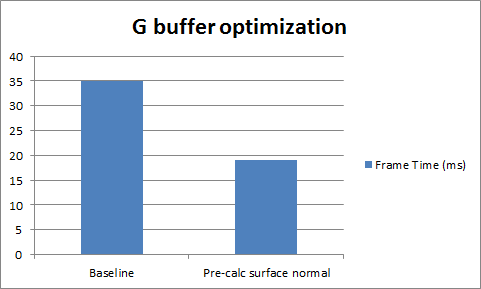
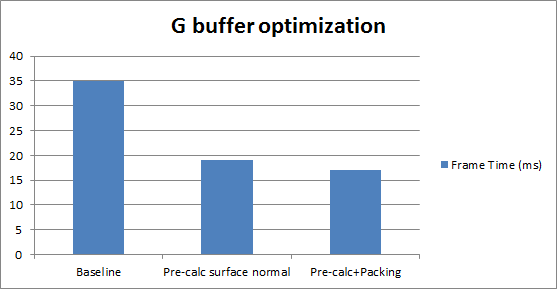
readme

diff --git a/README.md b/README.md
@@ -8,86 +8,128 @@ WebGL Deferred Shading
 
 ### Live Online
 
-[![](img/thumb.png)](http://TODO.github.io/Project6-WebGL-Deferred-Shading)
+[![](img/thumb.png)](http://stonebird.github.io/Project6-WebGL-Deferred-Shading/)
 
 ### Demo Video
 
-[![](img/video.png)](TODO)
+[![](img/video.png)](https://vimeo.com/143500915)
 
 ### Features and Analysis
 
-**Effects:**
+#### Effects
 
 * Deferred Blinn-Phong shading [4]
   * Blinn-Phong lighting with normal mapping support, rendered in a separate pass outside fragment shader
-  * *Optimization*:
-  * *Possible further improvements*: 
+  * *Optimization*: remove out surface normal calculations (see Optimized g-buffer)
+  * *Possible further improvements*: better falloff computation
+
+###### Deferred render
+
+![](img/deferred-render.png)
+
 * Bloom
-  * Post-process Gaussian blur [1] used to simulate glow effect=
-  * *Performance impact*:
-    * If applicable, how do parameters (such as number of lights, etc.)
-      affect performance? Show data with simple graphs.
-  * *Optimization*:
-  * *Possible further improvements*: 
+  * Post-process Gaussian blur [1] used to simulate glow effect
+  * *Optimization*: use two-pass Gaussian blur instead of one single convolution kernel
+    * Single convolution kernel requires significantly more time to compute. For a 5x5 kernel, that would require 25 reads per fragment
+    * On the other hand, two-pass convolution only needs 10 reads per fragment, which yields a 2.5x speedup
+  * *Possible further improvements*: none
+  * *Performance impact*: minor performance impact; see graph below
+
+###### Bloom
+
+![](img/bloom-shading.png)
+
 * Toon shading
   * Ramp shading with an edge detector for rendering outlines [2][3]
-  * *Performance impact*:
-    * If applicable, how do parameters (such as number of lights, etc.)
-      affect performance? Show data with simple graphs.
-  * *Optimization*:
-  * *Possible further improvements*: 
+  * Uses Sobel operator as edge detectors. The operator requires two convolution passes, each of which is a 3x3 kernel
+  * *Possible further improvements*: more passes for faster convolution. E.g. break each pass further into 2 passes, so that in each pass the shader is only applying convolution with a 1D kernel 
+  * *Performance impact*: medium performance impact; see graph below
+
+###### Toon
+
+![](img/toon-shading.png)
+
 * Additional material properties
   * Supports specular exponent as an input to g-buffers
   * *Performance impact*: no visible impact
 
-**Optimizations:**
+###### Additional material property
+
+![](img/spec-exp.png)
+
+###### Frame time (ms) with varying # of lights
+
+![](img/light-time.png)
+
+#### Optimizations
+
+* Optimized g-buffer format, reduce the number and size of g-buffers:
+  * `master` branch: surface normal pre-calculation
+    * Applying the normal map in the `copy` shader pass instead of copying both geometry normals and normal maps
+    * *Performance analysis*
+      * Significant improvement over non-optimized g-buffer for the following two reasons:
+        * 1 less g-buffer to read/write. This results in overall shorter memory access time
+        * Since the Blinn-Phong shader shades fragments in a loop, pre-calculating surface normal avoids recalculating surface normal over and over again inside the loop. This greatly reduces the computation time during deferred lighting
+      * Tradeoff: less flexibility inside the shader. The shader won't get geometry normal as input.
+  * `color-packing` branch: RGBA packing (**Chrome only**); code derived from [5]
+    * On top of pre-calculating surface normal, packing RGBA information into a single floating point value in g-buffer
+    * *Performance analysis*
+      * Minor performance improvement, due to one less g-buffer and hence overall faster memory access
+      * In general, this provides only marginal performance improvement, while reducing color quality greatly during color reconstruction
+      * Tradeoff: significant loss in color quality
+  * The reason why they are in two different branches is that color packing results in significant color quality loss in this implementation
+
+###### Render with RGBA packing. Notice the reduced color quality of the reconstructed color map
+
+![](img/packing-demo.png)
+
+###### G-buffer optimization effects
+
+![](img/gbuf-opt.png)
+
 * Scissoring
   * Scissor the screen for each light, such that it only renders in a rectangle around the light
-  * Detailed performance improvement analysis of adding the feature
-    * What is the best case scenario for your performance improvement? What is
-      the worst? Explain briefly.
-    * Are there tradeoffs to this performance feature? Explain briefly.
-    * How do parameters (such as number of lights, tile size, etc.) affect
-      performance? Show data with graphs.
-    * Show debug views when possible.
-      * If the debug view correlates with performance, explain how.
-* Optimized g-buffer format, reduce the number and size of g-buffers:
-  * Applying the normal map in the `copy` shader pass instead of copying both geometry normals and normal maps
-  * Detailed performance improvement analysis of adding the feature
-    * What is the best case scenario for your performance improvement? What is
-      the worst? Explain briefly.
-    * Are there tradeoffs to this performance feature? Explain briefly.
-    * How do parameters (such as number of lights, tile size, etc.) affect
-      performance? Show data with graphs.
-    * Show debug views when possible.
-      * If the debug view correlates with performance, explain how.
+  * *Performance analysis*
+    * Effectivity
+      * Effective in most cases, as instead of calculating lighting for all fragments, only a small portion of the fragments participate in the actual computation. Hence if a fragment is lit by only a few lights, less computation is needed.
+      * However, it becomes ineffective when number of lights increases to a significant amount. As seen in "Frame time" graph above, at 120 lights, the frame time increases dramatically. At this point, lots of lights are covering almost every fragment in the scene. Even though for each light, it's still scissored, but since there is too much overlapping, all fragments need to participate in the computation many times. Therefore the scissoring is much less effective
+    * Tradeoff: some artifacts due to loose AABB calculation (fixed below)
+
+###### Scissoring. Light boxes are in red. Darker means less light overlaps
+
+![](img/default-aabb-debug.png)
+
 * Improved screen-space AABB for scissor test
   * Calculate bounding box at sphere's front-facing max circle to minimize distortion due to transformations
-    * Faster
-    * More accurate
+  * *Performance analysis*
+    * Faster scissor tests due to more accurate (smaller) AABB calculation. Potentially much less overlapping on the edge of each light, for each fragment
     * Fixes artifacts caused by default AABB calculation
-  * Detailed performance improvement analysis of adding the feature
-    * What is the best case scenario for your performance improvement? What is
-      the worst? Explain briefly.
-    * Are there tradeoffs to this performance feature? Explain briefly.
-    * How do parameters (such as number of lights, tile size, etc.) affect
-      performance? Show data with graphs.
-    * Show debug views when possible.
-      * If the debug view correlates with performance, explain how.
-* Two-pass Gaussian blur for better bloom performance [1]
-  * Uses separate passes to apply convolution in both `x` and `y` directions
-  * Detailed performance improvement analysis of adding the feature
-    * What is the best case scenario for your performance improvement? What is
-      the worst? Explain briefly.
-    * Are there tradeoffs to this performance feature? Explain briefly.
-    * How do parameters (such as number of lights, tile size, etc.) affect
-      performance? Show data with graphs.
-    * Show debug views when possible.
-      * If the debug view correlates with performance, explain how.
 
-## References
+###### AABB size comparison. Improved AABB calculation yields smaller scissor boxes
+
+![](img/aabb-compare.png)
+
+###### Scissoring performance (no effects)
+
+![](img/scissor-pure.png)
+
+###### Scissoring performance (effects)
+
+![](img/scissor-effect.png)
+
+* Two-pass Gaussian blur [1]
+  * Uses separate passes to apply convolution in both `x` and `y` directions
+  * *Performance analysis*
+    * Faster post-processing
+    * As stated previoiusly, single convolution kernel requires significantly more time to compute. For a 5x5 kernel, two-pass convolution yields a 2.5x speedup
+    * Tradeoff: one more render pass. This requires one more buffer manipulation and memory setup
+
+### References
 
 * [1] Bloom: [GPU Gems, Ch. 21](http://http.developer.nvidia.com/GPUGems/gpugems_ch21.html)
 * [2] Edge detector: [Sobel Operator](https://en.wikipedia.org/wiki/Sobel_operator)
 * [3] Toon ramping: [Cel shading](http://prideout.net/blog/?p=22#toon)
 * [4] Blinn-Phong: [Blinn–Phong shading model](https://en.wikipedia.org/wiki/Blinn%E2%80%93Phong_shading_model)
+
+### Third-party codes
+* [5] RGBA packing: [Aras Pranckevičius](http://aras-p.info/blog/2009/07/30/encoding-floats-to-rgba-the-final/) [StackOverflow](http://stackoverflow.com/questions/30242013/glsl-compressing-packing-multiple-0-1-colours-var4-into-a-single-var4-variab)
